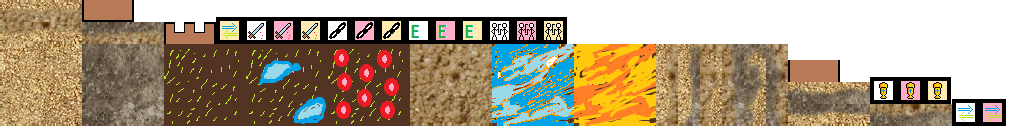
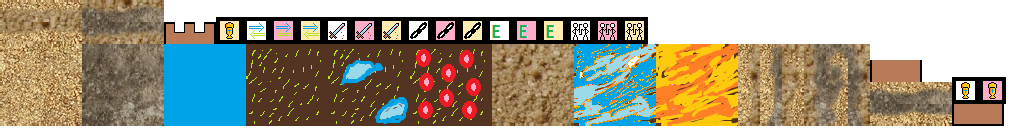
13/10/2014
En proceso
1. Trabajando en los ríos

Pendiente:

1. Crear los ríos y el agua, en general.
2. Introducción de nuevos eventos.
3. Hacer que los eventos caduquen pasado el tiempo y que haya
consecuencias.
4. Hacer que los eventos, en lugar de aparecer repentinamente, se añadan
a una cola desplegable.
5. Revisión de criterios de cumplimiento antes y después de que un
evento haya sido añadido. Actualización de opciones según estado de las
variables.
6. En "Opción" 64:9 buscar una solución más elegante (Depende del
punto anterior).
7. Producción:
Deben crearse los "edificios productivos", las granjas, los registros de
granjas y edificios productivos, fijar las producciones máximas, las
localizaciones,los individuos que trabajan en ellas y cansarlos conforme
se vayan "usando". También hay que hacer que el individuo pueda subir de
nivel. La familia necesita un inventario, también la granja en la que
estén trabajando.
8. Hacer las guías.
9. Seguir con el registro de funciones.
10. En Registrodefunciones\instalacióndenuevosciudadanos hacer que la
edad y quizá otras variables sean aleatorias.
11. Cambiar la perspectiva del juego.
12. Mirar la clase EventosyMenú y plantearse su utilidad.
13. Llenar y reordenar el resto de menús.
14. Creación de familias y especialización de las familias. Añadir
niveles a los edificios.
15. Eliminar las referencias a las texturas que no se usen.

diff --git a/Ciudadanos/core/src/com/virtualgames/ciudadanos/Agua.java b/Ciudadanos/core/src/com/virtualgames/ciudadanos/Agua.java
@@ -1,0 +1,67 @@
+package com.virtualgames.ciudadanos;
+
+import com.badlogic.gdx.graphics.g2d.SpriteBatch;
+import com.badlogic.gdx.graphics.g2d.TextureRegion;
+
+public class Agua extends Objetodejuego {
+
+	private TextureRegion textura = null;
+	
+	//Tipos de agua
+	
+	int tipodeagua;
+	private TextureRegion poza;
+	
+	
+	public int fila;
+	public int columna;
+	public float dimensionX = 0.20f;
+	public float dimensionY = 0.20f;
+	public int posicionX=-(4/3);
+	public int posicionY=0;
+	
+	
+	public Agua(){
+		
+		poza = Texturasysonidos.texturasysonidos.agua.poza;
+		
+		
+	}
+	
+	
+	public void establecertipodeagua(int tipodeagua){
+		
+		this.tipodeagua = tipodeagua;
+		if(tipodeagua==0){
+			//Poza
+			textura=poza;
+		}
+	};
+	
+	public int recuperartipodeagua(){
+		return tipodeagua;
+	}
+	
+	
+	public void asignarfila(int fila){
+		this.fila=fila;
+	}
+	public void asignarcolumna(int columna){
+		this.columna=columna;
+	}
+	public int recuperarfila(){
+		return this.fila;
+	}
+	public int recuperarcolumna(){
+		return this.columna;
+	}
+	
+	
+	
+	public void render(SpriteBatch batch) {
+		batch.draw(textura.getTexture(),posicionX, posicionY,origenX,origenY,dimensionX,dimensionY,
+				escalaX, escalaY,rotacion,textura.getRegionX(),textura.getRegionY(),
+				textura.getRegionWidth(),textura.getRegionHeight(),false,false);
+	}
+
+}

diff --git a/Ciudadanos/core/src/com/virtualgames/ciudadanos/Texturasysonidos.java b/Ciudadanos/core/src/com/virtualgames/ciudadanos/Texturasysonidos.java
@@ -41,6 +41,8 @@ public class Texturasysonidos implements Disposable, AssetErrorListener{
 	public TierraGrafica tierra;
 	//Las transiciones entre tierras
 	public Transiciones transiciones;
+	//El agua
+	public AguaGrafica agua;
 	//Los botones del juego
 	public BotonesGrafica botones;
 	//Estilos y actores
@@ -71,6 +73,7 @@ public class Texturasysonidos implements Disposable, AssetErrorListener{
 	torre = new TorreGrafica(atlasdetodaslastexturas);
 	transiciones = new Transiciones(atlasdetodaslastexturas);
 	tierra = new TierraGrafica(atlasdetodaslastexturas);
+	agua = new AguaGrafica(atlasdetodaslastexturas);
 	botones = new BotonesGrafica(atlasdetodaslastexturas);
 	
 	estilosyactores = new Estilosyactores();
@@ -310,6 +313,19 @@ public class Texturasysonidos implements Disposable, AssetErrorListener{
 			transverticaldp = atlas.findRegion("transverticaldp");
 			transhorizontalpd = atlas.findRegion("transhorizontalpd");
 			transverticalpd = atlas.findRegion("transverticalpd");
+			
+		}
+		
+	}
+	
+public class AguaGrafica{
+		
+		public final AtlasRegion poza;
+		
+		
+		public AguaGrafica(TextureAtlas atlas){
+		
+			poza = atlas.findRegion("poza");			
 			
 		}
 		

diff --git a/Ciudadanos/core/src/com/virtualgames/ciudadanos/Renderizador.java b/Ciudadanos/core/src/com/virtualgames/ciudadanos/Renderizador.java
@@ -76,8 +76,11 @@ private void renderizarObjetos(){
 	for (Transiciontierra transiciontierra:logica.gestordeescenario.transiciontierras){
 		transiciontierra.render(batch);
 	};
+	for (Agua agua:logica.gestordeescenario.aguas){
+		agua.render(batch);
+	}
 	
-	logica.torre.render(batch);
+	//logica.torre.render(batch);
 	batch.end();
 }
 
